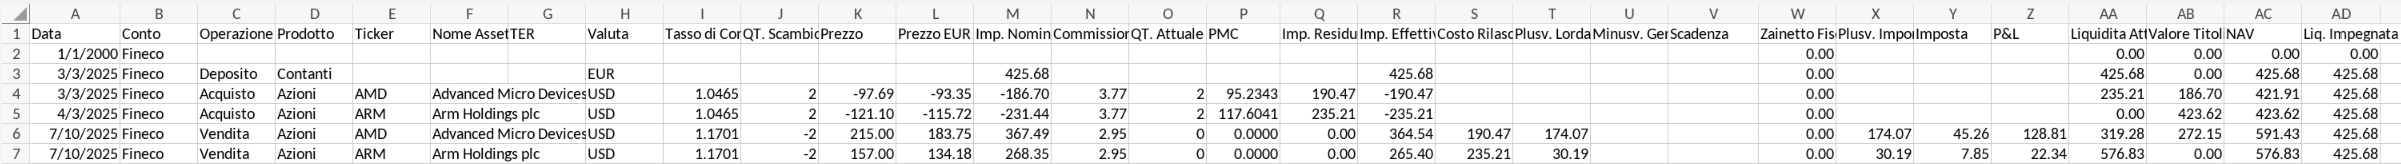
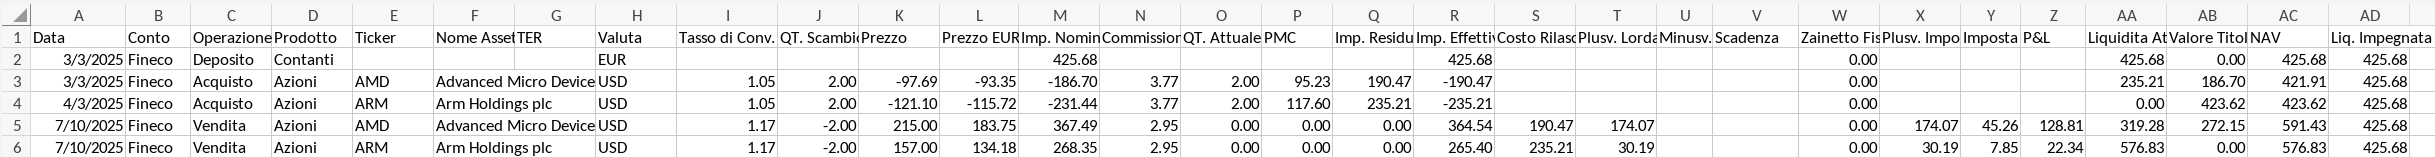
more cohesive submenu logic

diff --git a/main.py b/main.py
@@ -1,19 +1,13 @@
-import time
 import sys
-
-# these imports take ~0.20 seconds
 import numpy as np
 import pandas as pd
 import os
 import json
 
-
-
-# these imports take 0.80-0.83 seconds
 import utils.menu_operations as mop
 import utils.account as aop
 from utils.date_utils import get_date
-from utils.other_utils import wrong_input, create_defaults
+from utils.other_utils import create_defaults
 
 pd.set_option('display.max_columns', None)
 REP_DEF = "Report "
@@ -25,7 +19,7 @@ os.makedirs(config_res_folder, exist_ok=True)
 
 def main_menu(file, account_name, len_df, len_df_init, edited_flag):
     print("\n=================== MENU PRINCIPALE ===================\n")
-    print(f"Si sta operando sul conto: {account_name}\nFile caricato: {file}, con {len_df_init} righe.")
+    print(f"Si sta operando sul conto: {account_name}\nFile caricato: {file}, con {len_df_init-1} righe.")
 
     if edited_flag:
         diff = len_df - len_df_init
@@ -112,27 +106,26 @@ if __name__ == "__main__":
                 continue
 
             elif choice == '1':
-                os.system("cls" if os.name == "nt" else "clear")
-                print("\n--- OPERAZIONI SU LIQUIDITA' ---\n")
-                print("> Seleziona operazione. CTRL+C per tornare al Menu Principale.\n")
-                print("    1. Depositi e Prelievi\n    2. Dividendi\n    3. Imposta di Bollo / Altre imposte")
-                operation = input("\n> ")
-                try:
-                    operation = int(operation)
-                    if operation not in [1, 2, 3]:
-                        raise ValueError
-                except:
-                    wrong_input("Scelta non valida.", suppress_error=True)
-                
-                print('\n  - Data operazione GG-MM-AAAA ("t" per data odierna)')            
-                dt, ref_date = get_date(df)
+                cash_loop = True
+                while cash_loop:
+                    os.system("cls" if os.name == "nt" else "clear")
+                    print("\n--- OPERAZIONI SU LIQUIDITA' ---\n\nCTRL+C per annullare e tornare al Menu Principale.\n")
+                    print("    1. Depositi e Prelievi\n    2. Dividendi\n    3. Imposta di Bollo / Altre imposte")
+                    operation = input("\n> ")
+                    print('\n  - Data operazione GG-MM-AAAA ("t" per data odierna)')            
+                    dt, ref_date = get_date(df)
 
-                if operation == 1:
-                    df = mop.cashop(df, dt, ref_date, brokers[acc_idx])
-                elif operation == 2:
-                    df = mop.dividend(df, dt, ref_date, brokers[acc_idx])
-                else:
-                    df = mop.charge(df, dt, ref_date, brokers[acc_idx])
+                    if operation == "1":
+                        df = mop.cashop(df, dt, ref_date, brokers[acc_idx])                  
+                        cash_loop = False
+                    elif operation == "2":
+                        df = mop.dividend(df, dt, ref_date, brokers[acc_idx])
+                        cash_loop = False
+                    elif operation == "3":
+                        df = mop.charge(df, dt, ref_date, brokers[acc_idx])
+                        cash_loop = False
+                    else:
+                        input("\nScelta non valida. Premi Invio per riprovare.")
                 os.system("cls" if os.name == "nt" else "clear")
 
             elif choice == '2':
@@ -161,37 +154,36 @@ if __name__ == "__main__":
                 os.system("cls" if os.name == "nt" else "clear")
 
             elif choice == '6':
-                os.system("cls" if os.name == "nt" else "clear")
-                print("\n--- ANALISI PORTAFOGLIO ---\n")
-                print("> Seleziona operazione. CTRL+C per tornare al Menu Principale.\n")
-                print("    1. Statistiche generali\n    2. Analisi correlazione\n    3. Drawdown\n    4. VaR")
-                accounts_formatted = aop.format_accounts(df, acc_idx, all_accounts)
-                operation = input("\n> ")
-                try:
-                    operation = int(operation)
-                    if operation not in [1, 2, 3, 4]:
-                        raise ValueError
-                except:
-                    wrong_input("Scelta non valida.", suppress_error=True)
-                print()            
+                analysis_loop = True
+                while analysis_loop:
+                    os.system("cls" if os.name == "nt" else "clear")
+                    print("\n--- ANALISI PORTAFOGLIO ---\n\nCTRL+C per annullare e tornare al Menu Principale.\n")
+                    print("    1. Statistiche generali\n    2. Analisi correlazione\n    3. Drawdown\n    4. VaR")
+                    operation = input("\n> ")
+                    accounts_formatted = aop.format_accounts(df, acc_idx, all_accounts)
 
-                if operation == 1:
-                    from utils.analysis import summary
-                    hist_save_path = os.path.join(user_folder, "Storico Portafoglio.csv")
-                    summary(brokers, accounts_formatted, hist_save_path)
-                elif operation == 2:
-                    from utils.analysis import correlation
-                    correlation(accounts_formatted)
-                elif operation == 3:
-                    from utils.analysis import drawdown
-                    drawdown(accounts_formatted)
-                else:
-                    from utils.analysis import var_mc
-                    var_mc(accounts_formatted)
+                    if operation == "1":
+                        from utils.analysis import summary
+                        hist_save_path = os.path.join(user_folder, "Storico Portafoglio.csv")
+                        summary(brokers, accounts_formatted, hist_save_path)                  
+                        analysis_loop = False
+                    elif operation == "2":
+                        from utils.analysis import correlation
+                        correlation(accounts_formatted)
+                        analysis_loop = False
+                    elif operation == "3":
+                        from utils.analysis import drawdown
+                        drawdown(accounts_formatted)
+                        analysis_loop = False
+                    elif operation == "4":
+                        from utils.analysis import var_mc
+                        var_mc(accounts_formatted)
+                        analysis_loop = False
+                    else:
+                        input("\nScelta non valida. Premi Invio per riprovare.")
                 os.system("cls" if os.name == "nt" else "clear")
 
             elif choice in ("s", "S"):
-
                 settings_loop = True
                 while settings_loop:
                     os.system("cls" if os.name == "nt" else "clear")
@@ -228,33 +220,13 @@ if __name__ == "__main__":
                         input("\nScelta non valida. Premi Invio per riprovare.")
                 os.system("cls" if os.name == "nt" else "clear")
 
-            elif choice in ('i', 'I'):
-                from utils.other_utils import display_information
-                os.system("cls" if os.name == "nt" else "clear")
-                print("--- INFORMAZIONI / GLOSSARIO ---\n")
-                print("> Seleziona categoria. CTRL+C per tornare al Menu Principale.\n")
-                print("    1. Descrizione colonne del report\n    2. Informazioni su metriche/statistiche")
-                accounts_formatted = aop.format_accounts(df, acc_idx, all_accounts)
-                operation = input("\n> ")
-                try:
-                    operation = int(operation)
-                    if operation not in [1, 2]:
-                        raise ValueError
-                except:
-                    wrong_input("Scelta non valida.", suppress_error=True)
-                print()            
-
-                if operation == 1:
-                    display_information(page=operation)
-                else:
-                    display_information(page=operation)
-                os.system("cls" if os.name == "nt" else "clear")
-
             elif choice in ("e", "E"):
                 os.system("cls" if os.name == "nt" else "clear")
                 path_user = os.path.join(user_folder, file)
-                df.to_csv(path, index=False)                   # for internal use
-                df.to_csv(path_user, index=False)              # for the user to see 
+                df_user = df.copy()
+                df_user = df_user[1:]
+                df.to_csv(path, index=False)                        # for internal use
+                df_user.to_csv(path_user, index=False)              # for the user to see 
                 len_df_init = len(df)   
                 edited_flag = False
                 print(f'\nEsportato "{file}" in {user_folder}')
@@ -267,7 +239,22 @@ if __name__ == "__main__":
                     df = df.iloc[:-1]
                     print("\nUltima riga rimossa.")
                 else:
-                    print("\nLa riga template non può essere rimossa.")
+                    print("\nNessuna riga da rimuovere.")
+
+            elif choice in ('i', 'I'):
+                from utils.other_utils import display_information
+                info_loop = True
+                while info_loop:
+                    os.system("cls" if os.name == "nt" else "clear")
+                    print("\n--- INFORMAZIONI / GLOSSARIO ---\n\nCTRL+C per annullare e tornare al Menu Principale.\n")
+                    print("    1. Descrizione colonne del report\n    2. Informazioni su metriche/statistiche")
+                    operation = input("\n> ")
+                    if operation in ("1", "2"):
+                        display_information(page=int(operation))                 
+                        info_loop = False
+                    else:
+                        input("\nScelta non valida. Premi Invio per riprovare.")
+                os.system("cls" if os.name == "nt" else "clear")
 
             elif choice in ('q', 'Q'):
                 os.system("cls" if os.name == "nt" else "clear")

diff --git a/utils/analysis.py b/utils/analysis.py
@@ -223,7 +223,7 @@ def correlation(data):
     for account in data:
         account[1] = account[1][account[1]["Operazione"].isin(["Acquisto", "Vendita"])]
 
-    print('  Definire il periodo di analisi interessato. Ad esempio, da inizio portafoglio ad oggi.\n  Formato: GG-MM-AAAA, "t" per data odierna.')
+    print('\n  Definire il periodo di analisi interessato. Ad esempio, da inizio portafoglio ad oggi.\n  Formato: GG-MM-AAAA, "t" per data odierna.')
     print("  - Data inizio analisi:")
     start_dt, start_ref_date = get_date()
     print("  - Data fine analisi:")
@@ -293,7 +293,7 @@ def drawdown(data):
 
     data = [account for account in data if len(account[1]) > 1]
 
-    print('  Definire il periodo di analisi interessato. Ad esempio, da inizio portafoglio ad oggi.\n  Formato: GG-MM-AAAA, "t" per data odierna.')
+    print('\n  Definire il periodo di analisi interessato. Ad esempio, da inizio portafoglio ad oggi.\n  Formato: GG-MM-AAAA, "t" per data odierna.')
     print("  - Data inizio analisi:")
     start_dt, start_ref_date = get_date()
     print("  - Data fine analisi:")
@@ -334,7 +334,7 @@ def var_mc(data):
     if data:    
         start_ref_date = "2010-01-01"
         try:
-            confidence_interval = float(input("  - Intervallo di Confidenza (es. 0.99)\n    > "))
+            confidence_interval = float(input("\n  - Intervallo di Confidenza (es. 0.99)\n    > "))
             if confidence_interval <= 0.0 or confidence_interval >= 1.0:
                 raise ValueError
         except ValueError:
@@ -376,9 +376,7 @@ def var_mc(data):
         weights = assets_value / portfolio_value
         portfolio_value = portfolio_value + cash
         
-
         print("    Scaricamento dei dati storici da Yahoo Finance...")
-
         # 1. Costruisci un'unica lista di tutti i ticker necessari
         tickers_to_download = []
         if usd_tickers:
@@ -401,7 +399,6 @@ def var_mc(data):
                 end=end_dt, 
                 progress=False
             )
-
             # Gestione del caso in cui yf restituisce dati None/vuoti
             if all_data.empty:
                 print("    Nessun dato scaricato da Yahoo Finance.")
@@ -460,13 +457,7 @@ def var_mc(data):
                 else:
                     prices_df = pd.DataFrame([])
 
-            prices_df.to_csv("/home/atonello/Downloads/prices_df1.csv")
-
-
-
             prices_df = prices_df[asset_tickers]
-            prices_df.to_csv("/home/atonello/Downloads/prices_df2.csv")
-
             log_returns = np.log(prices_df/prices_df.shift(1))
             log_returns = log_returns.dropna()
 
@@ -479,9 +470,6 @@ def var_mc(data):
                     ticker_mean = ticker_df.mean() * weight
                     means.append(ticker_mean)
                 return np.sum(means)
-            
-            """def expected_return(weights, log_returns):
-                return np.sum(log_returns.mean()*weights)"""
 
             def standard_deviation (cov_matrix, weights):
                 variance = weights.T @ cov_matrix @ weights

diff --git a/utils/menu_operations.py b/utils/menu_operations.py
@@ -61,7 +61,7 @@ def charge(df, dt, ref_date, broker):
 # 2,3 - ETF, STOCK
 def etf_stock(df, broker, choice="ETF"):
     
-    print('\n  - Data operazione GG-MM-AAAA ("t" per data odierna)')
+    print('  - Data operazione GG-MM-AAAA ("t" per data odierna)')
     dt, ref_date = get_date(df)
 
     print("  - Valuta\n\t1. EUR\n\t2. USD")
@@ -141,7 +141,7 @@ def add_brokers(config_folder):
         brokers = json.load(f)
 
     idx = len(brokers) + 1
-    print('    Inserisci alias conto. Digitare "q" per terminare.')
+    print('\n    Inserisci alias conto. Digitare "q" per terminare.')
     while True:
         new_broker = input("\n     > ")
         if new_broker == "q":
@@ -166,7 +166,7 @@ def initialize_brokers(config_folder):
     path = os.path.join(config_folder, "brokers.json")
     brokers = {}
     idx = 1
-    print('    Inserisci alias conto. Digitare "q" per terminare.')
+    print('\n    Inserisci alias conto. Digitare "q" per terminare.')
     while True:
         new_broker = input("\n     > ")
         if new_broker == "q":

diff --git a/utils/other_utils.py b/utils/other_utils.py
@@ -131,7 +131,7 @@ def display_information(page):
         print("\tIl calcolo si basa sulla media geometrica dei rendimenti di tutti i sottoperiodi in cui è suddiviso l'investimento (es. giornaliero, mensile).")
         print("\tUtile nel confronto di performance con benchmark/indici o nella misurazione di statistiche, quali lo Sharpe Ratio.\n")
         
-        print("- Volatilità\n    Deviazione standard dei rendimenti per un determinato periodo di tempo.\n")
+        print("- Volatilità\n    Deviazione standard dei rendimenti su un determinato periodo di tempo.\n")
         print("- Sharpe Ratio\n    Misura la performance di un investimento confrontato con un asset 'risk-free' (ad esempio un tasso d'interesse di prestiti statali AAA a breve scadenza).")
         print("    Si calcola come la differenza tra i ritorni dell'investimento ed i ritorni risk-free, chiamata excess returns, diviso la deviazione standard degli excess returns.\n")
 

diff --git a/README.md b/README.md
@@ -36,7 +36,7 @@ ma è da tenere a mente non è possibile "rinominare" un account già salvato; i
 
 ***Utilizzo***
 
-All'avvio del programma verrà sempre richiesto il conto su cui operare. Ad ogni conto è associato un report, ovvero una tabella CSV con le operazioni effettuate. I report sono salvati nella cartella "reports", assieme ad un report di Template.
+All'avvio del programma verrà sempre richiesto il conto su cui operare. Ad ogni conto è associato un report, ovvero una tabella CSV con le operazioni effettuate. I report vengono salvati con l'opzione apposita (come spiegato in seguito) nella cartella "reports".
 
 <img src="./media/screenshots/report.png" alt="Report Example"/>
 
@@ -85,7 +85,7 @@ Come già specificato, le modifiche (comprese la rimozione di righe) sono confer
   - `uv`: esegui semplicemente `uv sync` per creare l'enviroment specificato in `pyproject.toml`
   - `pip`: in un environment, installa:
 ```sh
-pip install pandas numpy python-dateutil yfinance seaborn matplotlib scipy
+pip install pandas numpy python-dateutil yfinance matplotlib
 ```
 3. Esegui `main.py`
 
